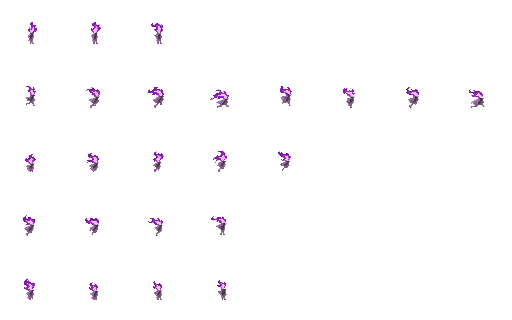
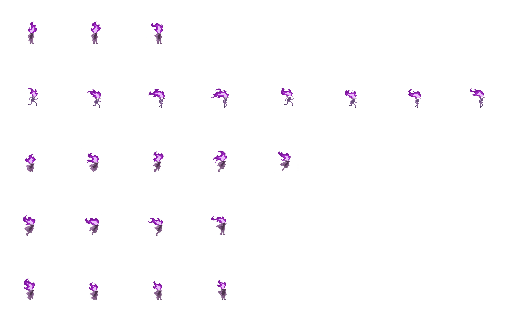
그림자 플레이어 달리기에 원본 발 디딤 적용

diff --git a/assets/characters/player/shadow/README.md b/assets/characters/player/shadow/README.md
@@ -8,4 +8,6 @@ VEILBOUND의 그림자 세계용 Jack 스프라이트 시트다. Jack의 가는 
 
 생성 시트에서 프레임을 추출해 최근접 샘플링으로 축소하고 원본 모션의 발 높이에 맞춰 배치했다. Shift 전환이 성공하면 해당 세계의 시트를 표시하고 현재 동작의 재생 시점을 이어간다. 현실로 돌아오거나 R로 재시작하면 기존 Jack 시트를 표시한다.
 
+달리기 8컷의 목 아래는 원본 Jack15~22의 픽셀을 같은 위치에서 가져와 보라색 팔레트로 입혔다. 원본의 팔 스윙과 발 디딤을 유지하고 프레임마다 불꽃 머리를 정렬했다. 재생 속도는 80ms/컷이다.
+
 내장 이미지 생성 도구에 《Dead Cells》 주인공의 불꽃 머리 실루엣을 참고해 모자와 얼굴을 없애고, 밝은 라일락 중심부와 짙은 보라색 끝을 가진 불꽃으로 머리 전체를 그리도록 요청했다. 빈손과 기존 24컷의 동작 순서, 투명 배경을 생성 조건으로 지정했다.
